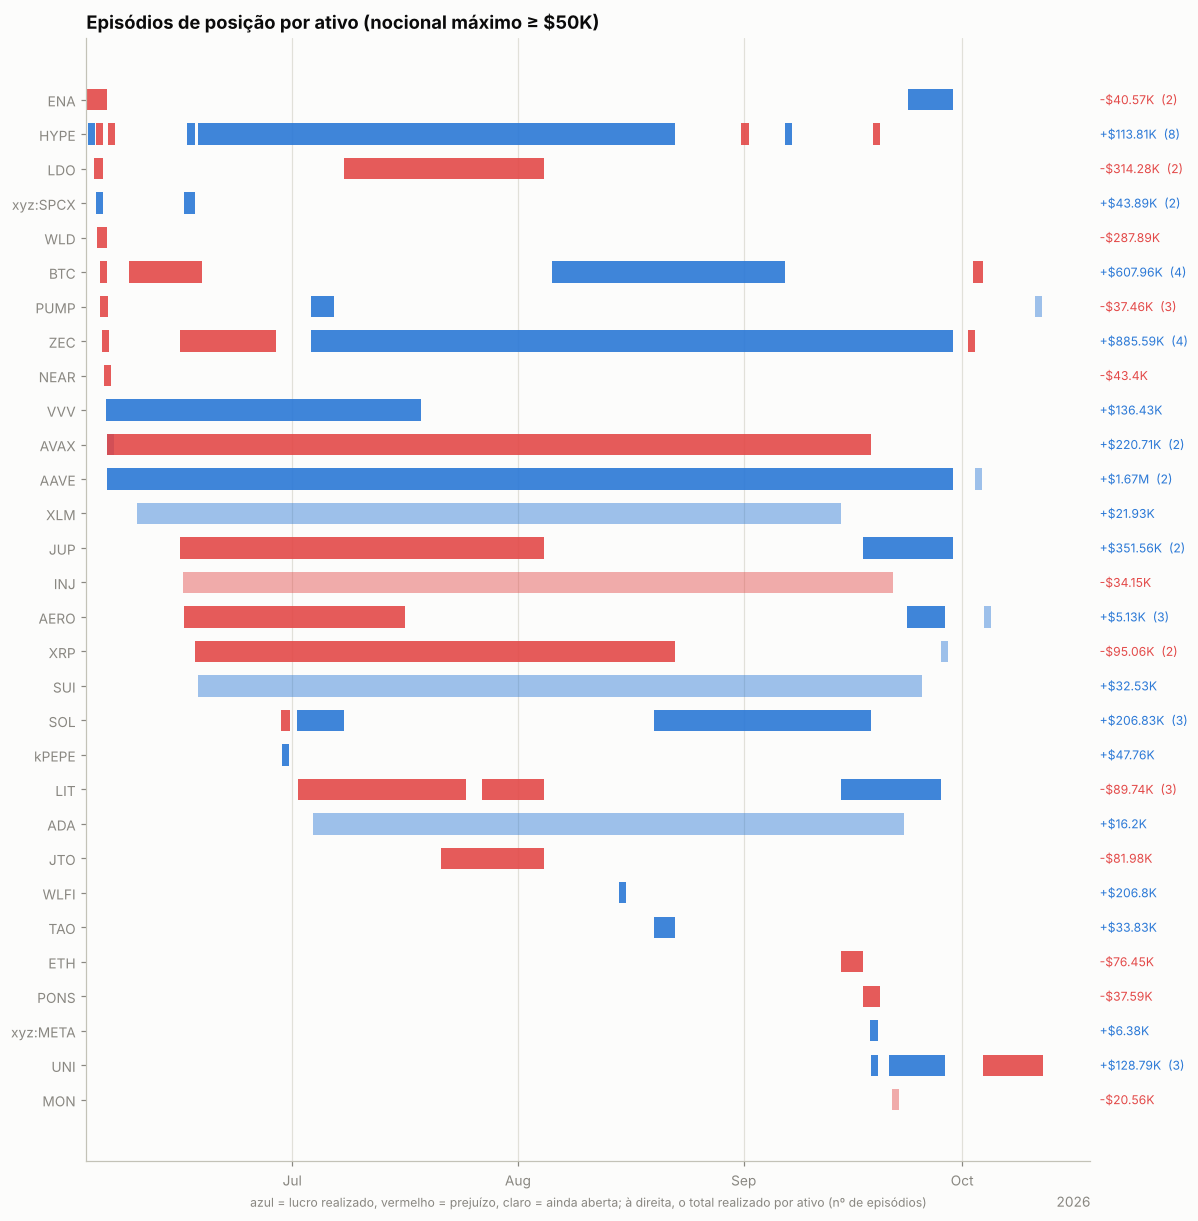
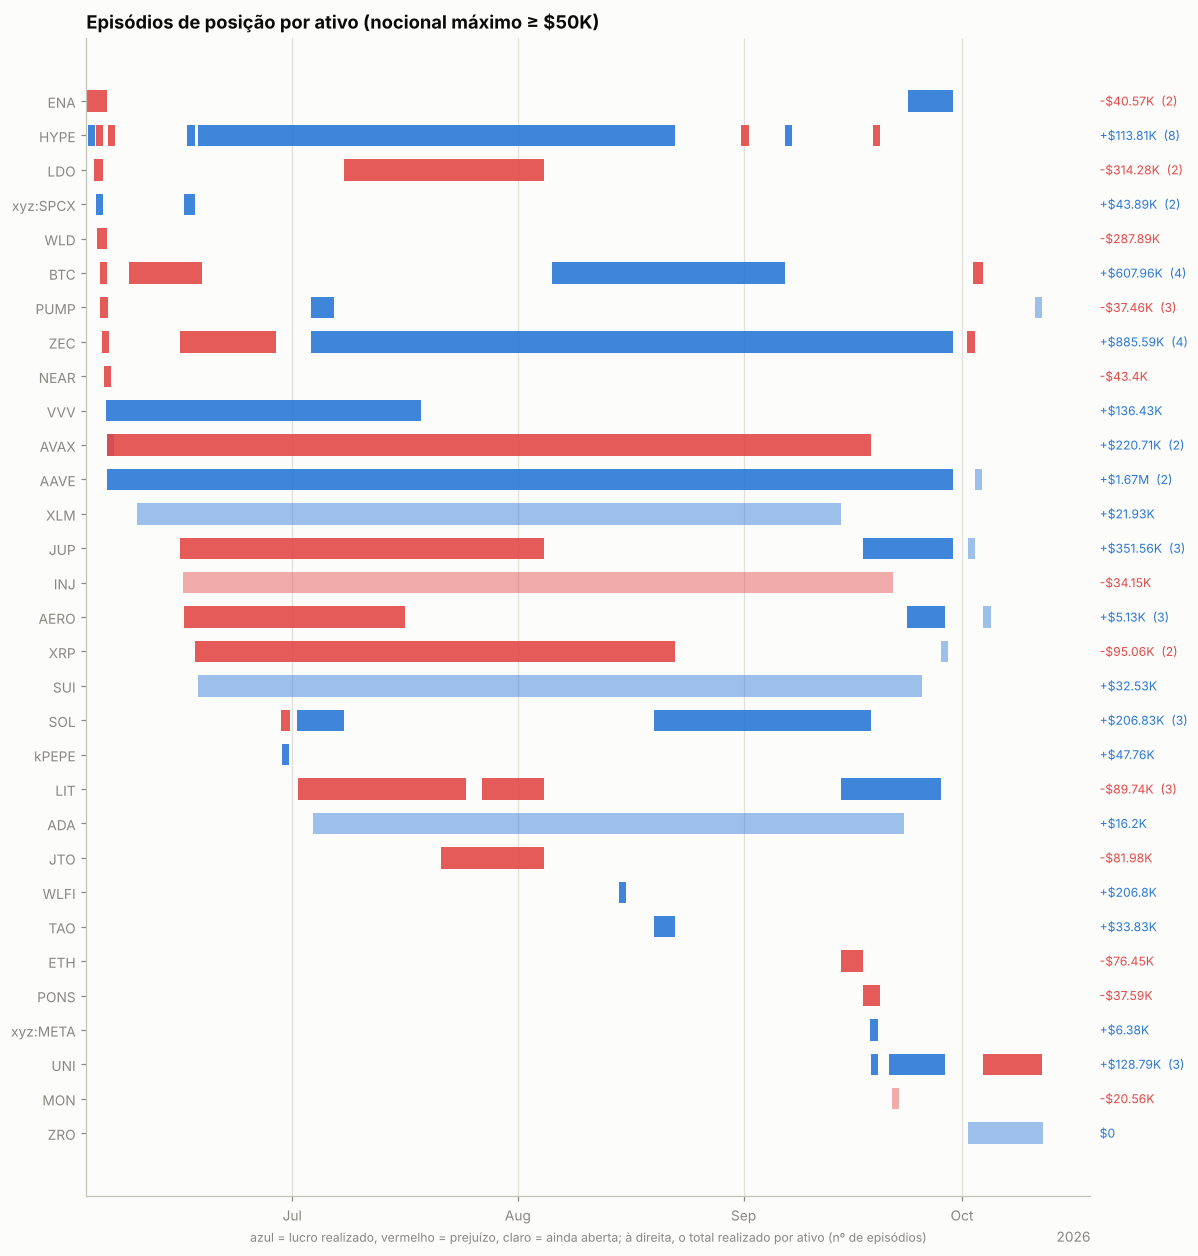
Add automatic report for 0x0748; detect own liquidations from the fill liquidation field
Newer fills mark liquidations in a liquidation dict (with liquidatedUser)
instead of dir, so the report counted 0. Count only the wallet's own ones.

Claude-Session: https://claude.ai/code/session_01C2hsqrLkKBX2gsgak5VV2Z

diff --git a/hlre/analyze.py b/hlre/analyze.py
@@ -479,8 +479,15 @@ def flows(ledger: pd.DataFrame) -> pd.DataFrame:
     return L.groupby("type")["usd"].agg(["count", "sum"]).sort_values("sum")
 
 
-def liquidation_events(fills: pd.DataFrame) -> pd.DataFrame:
+def liquidation_events(fills: pd.DataFrame, user: str | None = None) -> pd.DataFrame:
+    """Fills where the wallet itself was liquidated or auto-deleveraged. Newer
+    fills carry a `liquidation` dict instead of a special `dir`; when it names
+    another liquidatedUser the wallet was only the counterparty."""
     m = fills["dir"].str.contains("Liquidat|Deleverag", regex=True, na=False)
+    if user is not None and "liquidation" in fills:
+        own = fills["liquidation"].map(
+            lambda d: isinstance(d, dict) and str(d.get("liquidatedUser", "")).lower() == user.lower())
+        m = m | own
     return fills.loc[m, ["t", "coin", "dir", "side", "px", "sz", "startPosition", "closedPnl"]]
 
 

diff --git a/hlre/report.py b/hlre/report.py
@@ -127,7 +127,7 @@ def build(user: str, data_dir: str = "data", out_dir: str = "reports", coins: li
                          "PnL não realizado": usd(float(p["unrealizedPnl"]), True),
                          "liq.": p.get("liquidationPx") or "—"})
     liq_led = w.ledger[w.ledger["type"] == "liquidation"]
-    liq_f = liquidation_events(fills) if len(fills) else pd.DataFrame()
+    liq_f = liquidation_events(fills, w.user) if len(fills) else pd.DataFrame()
 
     md += [f"# Relatório automático — `{w.user}`", "",
            f"Gerado em {pd.Timestamp.now('UTC'):%Y-%m-%d %H:%M} UTC a partir da API pública da Hyperliquid "

diff --git a/reports/0x0748e296e5a350ec36c8487a1cea406e1b57d4b2/relatorio_auto.md b/reports/0x0748e296e5a350ec36c8487a1cea406e1b57d4b2/relatorio_auto.md
@@ -1,6 +1,6 @@
 # Relatório automático — `0x0748e296e5a350ec36c8487a1cea406e1b57d4b2`
 
-Gerado em 2026-10-13 18:09 UTC a partir da API pública da Hyperliquid (`POST /info`). Valores em USD. Este arquivo é regenerado por `python -m hlre.report`; a interpretação da estratégia fica em `ANALISE.md`.
+Gerado em 2026-10-13 18:10 UTC a partir da API pública da Hyperliquid (`POST /info`). Valores em USD. Este arquivo é regenerado por `python -m hlre.report`; a interpretação da estratégia fica em `ANALISE.md`.
 
 ## 1. Visão geral
 
@@ -11,12 +11,12 @@ Gerado em 2026-10-13 18:09 UTC a partir da API pública da Hyperliquid (`POST /i
 | PnL all-time só de perps | +$7.29M |
 | Volume all-time | $972.98M |
 | Primeira atividade | 2024-06-05 |
-| Fills disponíveis na API | 32,695 (desde 2026-06-02) |
-| Ordens (fills agrupados por oid) | 312 |
+| Fills disponíveis na API | 34,695 (desde 2026-06-02) |
+| Ordens (fills agrupados por oid) | 442 |
 | Funding líquido (recebido > 0) | -$887.3K |
-| Taxas pagas (período dos fills) | -$101.5K |
+| Taxas pagas (período dos fills) | -$101.8K |
 | Liquidações (ledger) | 0 |
-| Fills de liquidação/ADL | 0 |
+| Fills de liquidação/ADL | 144 |
 | Papel da conta | user |
 | API wallets (agentes) | 0 |
 
@@ -40,6 +40,8 @@ Gerado em 2026-10-13 18:09 UTC a partir da API pública da Hyperliquid (`POST /i
 
 ![PnL](img/pnl_curve.png)
 
+**Atenção: execuções que não aparecem nos fills.** A posição muda sem fill visível em 17 pontos (~$7.61M de nocional; maiores: HYPE $1.38M, LDO $1.14M, UNI $874.9K, JUP $765.8K, NEAR $747.4K). O mais comum são fatias de TWAP: ficam fora de `userFills` e o endpoint de TWAP só guarda as 2.000 mais recentes. O *preço exato* e as tabelas por episódio dessas moedas não são exatos.
+
 ## 3. De onde veio o PnL
 
 *Preço (aprox.)* usa a posição média diária de cada ativo, reconstruída a partir do histórico de funding (que traz o tamanho da posição a cada hora/dia desde o início da conta), vezes o movimento open→close do dia. Subestima o PnL de day trade, mas cobre o período sem fills. *Preço exato* marca cada fill no fechamento diário e só existe para o período coberto pelos fills.
@@ -55,15 +57,15 @@ Gerado em 2026-10-13 18:09 UTC a partir da API pública da Hyperliquid (`POST /i
 | ETH | +$933.5K | -$91.9K | +$841.7K | -$76.5K | -$1.6K |
 | SOL | +$614.1K | -$728 | +$613.4K | +$206.8K | -$3.2K |
 | XLM | +$511.3K | +$14.1K | +$525.4K | -$14.7K | -$74 |
-| UNI | +$548.0K | -$27.2K | +$520.8K | +$101.5K | -$535 |
+| UNI | +$548.0K | -$27.2K | +$520.8K | +$79.5K | -$573 |
 | IP | -$437.4K | -$76.6K | -$514.0K | — | — |
 | WLD | -$505.1K | -$1.7K | -$506.7K | +$4.4K | -$39 |
 | OM | +$465.2K | +$196 | +$465.4K | — | — |
 | ENA | +$448.9K | -$2.8K | +$446.1K | +$8.1K | -$302 |
 | kBONK | -$422.3K | -$10.0K | -$432.3K | — | — |
-| JUP | +$449.7K | -$21.5K | +$428.2K | +$252.0K | -$941 |
+| JUP | +$449.7K | -$21.5K | +$428.2K | +$250.1K | -$1.0K |
 | PENDLE | +$447.6K | -$39.4K | +$408.1K | — | — |
-| outros (77) | +$525.6K | -$329.4K | +$196.1K | -$243.8K | -$9.3K |
+| outros (77) | +$525.6K | -$329.4K | +$196.1K | -$206.6K | -$9.5K |
 
 **Decomposição no período dos fills** (preço exato): quanto veio de *carregar* a posição (e, dentro disso, do viés médio vs. do *timing* de aumentar/reduzir), quanto de trades intradiários, funding e taxas.
 
@@ -151,7 +153,7 @@ Gerado em 2026-10-13 18:09 UTC a partir da API pública da Hyperliquid (`POST /i
 | SOL | $10.51M | 10 | 91% | 1e+04 |
 | ZEC | $7.21M | 15 | 76% | 500 |
 | LIT | $6.10M | 13 | 43% | 1.996e+05 |
-| JUP | $5.24M | 17 | 47% | 1e+06 |
+| JUP | $5.57M | 38 | 50% | 4.918e+04 |
 | ETH | $4.96M | 2 | 100% | 1,000 |
 | AAVE | $4.35M | 9 | 71% | 5,000 |
 | LDO | $3.64M | 21 | 55% | 2.152e+05 |
@@ -278,7 +280,7 @@ Por sessão (ordens a menos de 30 min uma da outra contam como uma decisão; p =
 
 ![Episódios](img/episodes_timeline.png)
 
-Episódios com nocional máximo ≥ $50K: 60; fechados com lucro: 47%. Abaixo, os 25 maiores por PnL realizado, em ordem de data. *7d/30d antes* e *vs. máx. 30d*: o que o preço tinha feito até a primeira ordem; *funding a.a.*: taxa anualizada nas 24h anteriores (positiva = longs pagam shorts); *entrada média vs. 1ª ordem*: positivo = foi aumentando a posição com o preço indo contra; *contra (máx.)*: quanto o preço andou contra a primeira ordem durante o episódio; *capturado*: movimento entre o preço médio de entrada e o de saída.
+Episódios com nocional máximo ≥ $50K: 62; fechados com lucro: 47%. Abaixo, os 25 maiores por PnL realizado, em ordem de data. *7d/30d antes* e *vs. máx. 30d*: o que o preço tinha feito até a primeira ordem; *funding a.a.*: taxa anualizada nas 24h anteriores (positiva = longs pagam shorts); *entrada média vs. 1ª ordem*: positivo = foi aumentando a posição com o preço indo contra; *contra (máx.)*: quanto o preço andou contra a primeira ordem durante o episódio; *capturado*: movimento entre o preço médio de entrada e o de saída.
 
 | ativo | lado | início | dias | nocional máx. | 7d antes | 30d antes | vs. máx. 30d | funding a.a. na entrada | entrada média vs. 1ª ordem | contra (máx.) | pior PnL aberto | capturado | realizado | funding |
 |---|---|---|---|---|---|---|---|---|---|---|---|---|---|---|
@@ -306,7 +308,7 @@ Episódios com nocional máximo ≥ $50K: 60; fechados com lucro: 47%. Abaixo, o
 | JUP | long | 2026-09-17 | 12 | $2.02M | -3% | +34% | -19% | +3% | -13% | +1% | -$8.1K | +26% | +$406.9K | -$8.9K |
 | UNI | short | 2026-09-18 | 0 | $873.1K | +44% | +164% | +0% | +19% | — | -0% | -$5.2K | — | +$168.5K | -$406 |
 | BTC | long | 2026-10-02 | 1 | $4.34M | +2% | +12% | -1% | +9% | -0% | +3% | -$129.5K | -2% | -$105.3K | -$1.3K |
-| UNI | long | 2026-10-03 | 8 | $449.6K | -6% | +45% | -16% | +11% | -0% | +21% | -$96.0K | -15% | -$66.0K | -$1.0K |
+| UNI | long | 2026-10-03 | 8 | $449.6K | -6% | +45% | -16% | +11% | -0% | +21% | -$97.2K | -11% | -$66.0K | -$1.0K |
 
 ## 7. Funding
 
@@ -351,6 +353,155 @@ Ponte HyperCore↔HyperEVM (endereços de sistema `0x2000…`/`0x2222…`): 18 t
 | `0xc8e06ebfbfaf1b1720dfae86a0fc979e5649823e` | transfers | 2 | $769.0K | $0 | -$829 | 0 | — |
 | `0xa822a9ceb6d6cb5b565bd10098abcfa9cf18d748` | transfers | 4 | $405.1K | $16,221.12M | -$6,234.56M | 0 | UBONK 88,765,611,412,586, UPUMP 990,689,682,835, UDZ 9,998,579,464 |
 | `0xfa2dbdbee70ff0b29171670573a1fff1a02d1ca2` | transfers | 1 | $249.5K | $2 | -$483 | 0 | USDC 1, USOL 0, HYPE 0 |
+
+**Liquidações e ADL (auto-deleveraging) nos fills:**
+
+| quando (UTC) | ativo | tipo | lado | preço | tamanho | posição antes | PnL realizado |
+|---|---|---|---|---|---|---|---|
+| 2026-07-24 20:36:28 | LIT | Close Long | A | 2.0441 | 156.0 | 500000.0 | -$30 |
+| 2026-07-24 20:36:28 | LIT | Close Long | A | 2.0441 | 300.0 | 499844.0 | -$57 |
+| 2026-07-24 20:36:28 | LIT | Close Long | A | 2.0441 | 620.0 | 499544.0 | -$117 |
+| 2026-07-24 20:36:28 | LIT | Close Long | A | 2.044 | 143.0 | 498924.0 | -$27 |
+| 2026-07-24 20:36:28 | LIT | Close Long | A | 2.0439 | 5.0 | 498781.0 | -$1 |
+| 2026-07-24 20:36:28 | LIT | Close Long | A | 2.0438 | 346.0 | 498776.0 | -$66 |
+| 2026-07-24 20:36:28 | LIT | Close Long | A | 2.0438 | 371.0 | 498430.0 | -$70 |
+| 2026-07-24 20:36:28 | LIT | Close Long | A | 2.0438 | 169.0 | 498059.0 | -$32 |
+| 2026-07-24 20:36:28 | LIT | Close Long | A | 2.0438 | 640.0 | 497890.0 | -$121 |
+| 2026-07-24 20:36:28 | LIT | Close Long | A | 2.0438 | 163.0 | 497250.0 | -$31 |
+| 2026-07-24 20:36:28 | LIT | Close Long | A | 2.0437 | 293.0 | 497087.0 | -$56 |
+| 2026-07-24 20:36:28 | LIT | Close Long | A | 2.0437 | 49.0 | 496794.0 | -$9 |
+| 2026-07-24 20:36:28 | LIT | Close Long | A | 2.0436 | 200.0 | 496745.0 | -$38 |
+| 2026-07-24 20:36:28 | LIT | Close Long | A | 2.0435 | 120.0 | 496545.0 | -$23 |
+| 2026-07-24 20:36:28 | LIT | Close Long | A | 2.0434 | 40.0 | 496425.0 | -$8 |
+| 2026-07-24 20:36:28 | LIT | Close Long | A | 2.0434 | 120.0 | 496385.0 | -$23 |
+| 2026-07-24 20:36:28 | LIT | Close Long | A | 2.0433 | 500.0 | 496265.0 | -$95 |
+| 2026-07-24 20:36:28 | LIT | Close Long | A | 2.0433 | 1250.0 | 495765.0 | -$237 |
+| 2026-07-24 20:36:28 | LIT | Close Long | A | 2.0433 | 357.0 | 494515.0 | -$68 |
+| 2026-07-24 20:36:28 | LIT | Close Long | A | 2.0432 | 777.0 | 494158.0 | -$148 |
+| 2026-07-24 20:36:28 | LIT | Close Long | A | 2.0432 | 49.0 | 493381.0 | -$9 |
+| 2026-07-24 20:36:28 | LIT | Close Long | A | 2.0431 | 10.0 | 493332.0 | -$2 |
+| 2026-07-24 20:36:28 | LIT | Close Long | A | 2.0431 | 262.0 | 493322.0 | -$50 |
+| 2026-07-24 20:36:28 | LIT | Close Long | A | 2.043 | 24.0 | 493060.0 | -$5 |
+| 2026-07-24 20:36:28 | LIT | Close Long | A | 2.043 | 1157.0 | 493036.0 | -$220 |
+| 2026-07-24 20:36:28 | LIT | Close Long | A | 2.0429 | 120.0 | 491879.0 | -$23 |
+| 2026-07-24 20:36:28 | LIT | Close Long | A | 2.0429 | 760.0 | 491759.0 | -$145 |
+| 2026-07-24 20:36:28 | LIT | Close Long | A | 2.0428 | 25.0 | 490999.0 | -$5 |
+| 2026-07-24 20:36:28 | LIT | Close Long | A | 2.0428 | 502.0 | 490974.0 | -$96 |
+| 2026-07-24 20:36:28 | LIT | Close Long | A | 2.0427 | 161.0 | 490472.0 | -$31 |
+| 2026-07-24 20:36:28 | LIT | Close Long | A | 2.0427 | 640.0 | 490311.0 | -$122 |
+| 2026-07-24 20:36:28 | LIT | Close Long | A | 2.0426 | 143.0 | 489671.0 | -$27 |
+| 2026-07-24 20:36:28 | LIT | Close Long | A | 2.0426 | 317.0 | 489528.0 | -$60 |
+| 2026-07-24 20:36:28 | LIT | Close Long | A | 2.0426 | 1250.0 | 489211.0 | -$238 |
+| 2026-07-24 20:36:28 | LIT | Close Long | A | 2.0422 | 6.0 | 487961.0 | -$1 |
+| 2026-07-24 20:36:28 | LIT | Close Long | A | 2.0422 | 3370.0 | 487955.0 | -$644 |
+| 2026-07-24 20:36:28 | LIT | Close Long | A | 2.0421 | 20038.0 | 484585.0 | -$3.8K |
+| 2026-07-24 20:36:28 | LIT | Close Long | A | 2.042 | 24.0 | 464547.0 | -$5 |
+| 2026-07-24 20:36:28 | LIT | Close Long | A | 2.042 | 4709.0 | 464523.0 | -$901 |
+| 2026-07-24 20:36:28 | LIT | Close Long | A | 2.042 | 641.0 | 459814.0 | -$123 |
+| 2026-07-24 20:36:28 | LIT | Close Long | A | 2.042 | 736.0 | 459173.0 | -$141 |
+| 2026-07-24 20:36:28 | LIT | Close Long | A | 2.0419 | 485.0 | 458437.0 | -$93 |
+| 2026-07-24 20:36:28 | LIT | Close Long | A | 2.0418 | 1735.0 | 457952.0 | -$332 |
+| 2026-07-24 20:36:28 | LIT | Close Long | A | 2.0417 | 1359.0 | 456217.0 | -$260 |
+| 2026-07-24 20:36:28 | LIT | Close Long | A | 2.0416 | 317.0 | 454858.0 | -$61 |
+| 2026-07-24 20:36:28 | LIT | Close Long | A | 2.0416 | 16506.0 | 454541.0 | -$3.2K |
+| 2026-07-24 20:36:28 | LIT | Close Long | A | 2.0415 | 195.0 | 438035.0 | -$37 |
+| 2026-07-24 20:36:28 | LIT | Close Long | A | 2.0415 | 777.0 | 437840.0 | -$149 |
+| 2026-07-24 20:36:28 | LIT | Close Long | A | 2.0414 | 5109.0 | 437063.0 | -$980 |
+| 2026-07-24 20:36:28 | LIT | Close Long | A | 2.0414 | 40.0 | 431954.0 | -$8 |
+| 2026-07-24 20:36:28 | LIT | Close Long | A | 2.0413 | 198.0 | 431914.0 | -$38 |
+| 2026-07-24 20:36:28 | LIT | Close Long | A | 2.0413 | 40.0 | 431716.0 | -$8 |
+| 2026-07-24 20:36:28 | LIT | Close Long | A | 2.0412 | 13833.0 | 431676.0 | -$2.7K |
+| 2026-07-24 20:36:28 | LIT | Close Long | A | 2.0412 | 24.0 | 417843.0 | -$5 |
+| 2026-07-24 20:36:28 | LIT | Close Long | A | 2.0412 | 641.0 | 417819.0 | -$123 |
+| 2026-07-24 20:36:28 | LIT | Close Long | A | 2.0411 | 25.0 | 417178.0 | -$5 |
+| 2026-07-24 20:36:28 | LIT | Close Long | A | 2.0409 | 1200.0 | 417153.0 | -$231 |
+| 2026-07-24 20:36:28 | LIT | Close Long | A | 2.0407 | 484.0 | 415953.0 | -$93 |
+| 2026-07-24 20:36:28 | LIT | Close Long | A | 2.0405 | 19.0 | 415469.0 | -$4 |
+| 2026-07-24 20:36:28 | LIT | Close Long | A | 2.0405 | 10.0 | 415450.0 | -$2 |
+| 2026-07-24 20:36:28 | LIT | Close Long | A | 2.0405 | 2039.0 | 415440.0 | -$393 |
+| 2026-07-24 20:36:28 | LIT | Close Long | A | 2.0404 | 6.0 | 413401.0 | -$1 |
+| 2026-07-24 20:36:28 | LIT | Close Long | A | 2.0403 | 887.0 | 413395.0 | -$171 |
+| 2026-07-24 20:36:28 | LIT | Close Long | A | 2.0403 | 760.0 | 412508.0 | -$147 |
+| 2026-07-24 20:36:28 | LIT | Close Long | A | 2.0402 | 195.0 | 411748.0 | -$38 |
+| 2026-07-24 20:36:28 | LIT | Close Long | A | 2.0402 | 6.0 | 411553.0 | -$1 |
+| 2026-07-24 20:36:28 | LIT | Close Long | A | 2.0401 | 389.0 | 411547.0 | -$75 |
+| 2026-07-24 20:36:28 | LIT | Close Long | A | 2.0401 | 760.0 | 411158.0 | -$147 |
+| 2026-07-24 20:36:28 | LIT | Close Long | A | 2.04 | 12.0 | 410398.0 | -$2 |
+| 2026-07-24 20:36:28 | LIT | Close Long | A | 2.04 | 40.0 | 410386.0 | -$8 |
+| 2026-07-24 20:36:28 | LIT | Close Long | A | 2.04 | 4709.0 | 410346.0 | -$910 |
+| 2026-07-24 20:36:28 | LIT | Close Long | A | 2.0399 | 5.0 | 405637.0 | -$1 |
+| 2026-07-24 20:36:28 | LIT | Close Long | A | 2.0398 | 10.0 | 405632.0 | -$2 |
+| 2026-07-24 20:36:28 | LIT | Close Long | A | 2.0398 | 2314.0 | 405622.0 | -$448 |
+| 2026-07-24 20:36:28 | LIT | Close Long | A | 2.0395 | 3308.0 | 403308.0 | -$641 |
+| 2026-07-24 20:36:31 | LIT | Close Long | A | 2.0379 | 4209.0 | 400000.0 | -$822 |
+| 2026-07-24 20:36:31 | LIT | Close Long | A | 2.0378 | 85.0 | 395791.0 | -$17 |
+| 2026-07-24 20:36:31 | LIT | Close Long | A | 2.0377 | 1200.0 | 395706.0 | -$235 |
+| 2026-07-24 20:36:31 | LIT | Close Long | A | 2.0377 | 25.0 | 394506.0 | -$5 |
+| 2026-07-24 20:36:31 | LIT | Close Long | A | 2.0376 | 10.0 | 394481.0 | -$2 |
+| 2026-07-24 20:36:31 | LIT | Close Long | A | 2.0376 | 161.0 | 394471.0 | -$32 |
+| 2026-07-24 20:36:31 | LIT | Close Long | A | 2.0374 | 40.0 | 394310.0 | -$8 |
+| 2026-07-24 20:36:31 | LIT | Close Long | A | 2.0372 | 13833.0 | 394270.0 | -$2.7K |
+| 2026-07-24 20:36:31 | LIT | Close Long | A | 2.0371 | 24.0 | 380437.0 | -$5 |
+| 2026-07-24 20:36:31 | LIT | Close Long | A | 2.037 | 2039.0 | 380413.0 | -$400 |
+| 2026-07-24 20:36:31 | LIT | Close Long | A | 2.0368 | 270.0 | 378374.0 | -$53 |
+| 2026-07-24 20:36:31 | LIT | Close Long | A | 2.0368 | 734.0 | 378104.0 | -$144 |
+| 2026-07-24 20:36:31 | LIT | Close Long | A | 2.0368 | 147.0 | 377370.0 | -$29 |
+| 2026-07-24 20:36:31 | LIT | Close Long | A | 2.0367 | 7327.0 | 377223.0 | -$1.4K |
+| 2026-07-24 20:36:31 | LIT | Close Long | A | 2.0366 | 4173.0 | 369896.0 | -$821 |
+| 2026-07-24 20:36:31 | LIT | Close Long | A | 2.0366 | 5.0 | 365723.0 | -$1 |
+| 2026-07-24 20:36:31 | LIT | Close Long | A | 2.0364 | 49106.0 | 365718.0 | -$9.7K |
+| 2026-07-24 20:36:31 | LIT | Close Long | A | 2.0363 | 500.0 | 316612.0 | -$98 |
+| 2026-07-24 20:36:31 | LIT | Close Long | A | 2.036 | 334.0 | 316112.0 | -$66 |
+| 2026-07-24 20:36:31 | LIT | Close Long | A | 2.0357 | 37.0 | 315778.0 | -$7 |
+| 2026-07-24 20:36:31 | LIT | Close Long | A | 2.0356 | 16.0 | 315741.0 | -$3 |
+| 2026-07-24 20:36:31 | LIT | Close Long | A | 2.0354 | 40.0 | 315725.0 | -$8 |
+| 2026-07-24 20:36:31 | LIT | Close Long | A | 2.0353 | 11.0 | 315685.0 | -$2 |
+| 2026-07-24 20:36:31 | LIT | Close Long | A | 2.0353 | 6.0 | 315674.0 | -$1 |
+| 2026-07-24 20:36:31 | LIT | Close Long | A | 2.0353 | 40.0 | 315668.0 | -$8 |
+| 2026-07-24 20:36:31 | LIT | Close Long | A | 2.0352 | 270.0 | 315628.0 | -$53 |
+| 2026-07-24 20:36:31 | LIT | Close Long | A | 2.0352 | 147.0 | 315358.0 | -$29 |
+| 2026-07-24 20:36:31 | LIT | Close Long | A | 2.0351 | 2204.0 | 315211.0 | -$437 |
+| 2026-07-24 20:36:31 | LIT | Close Long | A | 2.0351 | 13.0 | 313007.0 | -$3 |
+| 2026-07-24 20:36:31 | LIT | Close Long | A | 2.0351 | 734.0 | 312994.0 | -$145 |
+| 2026-07-24 20:36:31 | LIT | Close Long | A | 2.035 | 1228.0 | 312260.0 | -$243 |
+| 2026-07-24 20:36:31 | LIT | Close Long | A | 2.035 | 9828.0 | 311032.0 | -$1.9K |
+| 2026-07-24 20:36:31 | LIT | Close Long | A | 2.0349 | 9766.0 | 301204.0 | -$1.9K |
+| 2026-07-24 20:36:31 | LIT | Close Long | A | 2.0349 | 9761.0 | 291438.0 | -$1.9K |
+| 2026-07-24 20:36:31 | LIT | Close Long | A | 2.0347 | 34.0 | 281677.0 | -$7 |
+| 2026-07-24 20:36:31 | LIT | Close Long | A | 2.0347 | 803.0 | 281643.0 | -$159 |
+| 2026-07-24 20:36:31 | LIT | Close Long | A | 2.0347 | 7.0 | 280840.0 | -$1 |
+| 2026-07-24 20:36:31 | LIT | Close Long | A | 2.0345 | 5109.0 | 280833.0 | -$1.0K |
+| 2026-07-24 20:36:31 | LIT | Close Long | A | 2.0345 | 198.0 | 275724.0 | -$39 |
+| 2026-07-24 20:36:31 | LIT | Close Long | A | 2.0344 | 1200.0 | 275526.0 | -$239 |
+| 2026-07-24 20:36:31 | LIT | Close Long | A | 2.0343 | 25.0 | 274326.0 | -$5 |
+| 2026-07-24 20:36:31 | LIT | Close Long | A | 2.0343 | 1250.0 | 274301.0 | -$249 |
+| 2026-07-24 20:36:31 | LIT | Close Long | A | 2.0343 | 2719.0 | 273051.0 | -$541 |
+| 2026-07-24 20:36:31 | LIT | Close Long | A | 2.0343 | 492.0 | 270332.0 | -$98 |
+| 2026-07-24 20:36:31 | LIT | Close Long | A | 2.034 | 24.0 | 269840.0 | -$5 |
+| 2026-07-24 20:36:31 | LIT | Close Long | A | 2.0339 | 270.0 | 269816.0 | -$54 |
+| 2026-07-24 20:36:31 | LIT | Close Long | A | 2.0339 | 147.0 | 269546.0 | -$29 |
+| 2026-07-24 20:36:31 | LIT | Close Long | A | 2.0339 | 1295.0 | 269399.0 | -$258 |
+| 2026-07-24 20:36:31 | LIT | Close Long | A | 2.0338 | 9049.0 | 268104.0 | -$1.8K |
+| 2026-07-24 20:36:31 | LIT | Close Long | A | 2.0338 | 10.0 | 259055.0 | -$2 |
+| 2026-07-24 20:36:31 | LIT | Close Long | A | 2.0338 | 2755.0 | 259045.0 | -$550 |
+| 2026-07-24 20:36:31 | LIT | Close Long | A | 2.0336 | 3591.0 | 256290.0 | -$717 |
+| 2026-07-24 20:36:31 | LIT | Close Long | A | 2.0333 | 40.0 | 252699.0 | -$8 |
+| 2026-07-24 20:36:31 | LIT | Close Long | A | 2.0333 | 775.0 | 252659.0 | -$155 |
+| 2026-07-24 20:36:31 | LIT | Close Long | A | 2.0332 | 5.0 | 251884.0 | -$1 |
+| 2026-07-24 20:36:31 | LIT | Close Long | A | 2.0331 | 24.0 | 251879.0 | -$5 |
+| 2026-07-24 20:36:31 | LIT | Close Long | A | 2.033 | 4900.0 | 251855.0 | -$981 |
+| 2026-07-24 20:36:31 | LIT | Close Long | A | 2.0329 | 768.0 | 246955.0 | -$154 |
+| 2026-07-24 20:36:31 | LIT | Close Long | A | 2.0328 | 270.0 | 246187.0 | -$54 |
+| 2026-07-24 20:36:31 | LIT | Close Long | A | 2.0328 | 147.0 | 245917.0 | -$29 |
+| 2026-07-24 20:36:31 | LIT | Close Long | A | 2.0328 | 80523.0 | 245770.0 | -$16.1K |
+| 2026-07-24 20:36:31 | LIT | Close Long | A | 2.0326 | 768.0 | 165247.0 | -$154 |
+| 2026-07-24 20:36:31 | LIT | Close Long | A | 2.0326 | 25.0 | 164479.0 | -$5 |
+| 2026-07-24 20:36:31 | LIT | Close Long | A | 2.0326 | 734.0 | 164454.0 | -$147 |
+| 2026-07-24 20:36:31 | LIT | Close Long | A | 2.0323 | 768.0 | 163720.0 | -$154 |
+| 2026-07-24 20:36:31 | LIT | Close Long | A | 2.0323 | 314.0 | 162952.0 | -$63 |
+| 2026-07-24 20:36:31 | LIT | Close Long | A | 2.0322 | 40.0 | 162638.0 | -$8 |
+| 2026-07-24 20:36:31 | LIT | Close Long | A | 2.0322 | 49.0 | 162598.0 | -$10 |
+| 2026-07-24 20:36:31 | LIT | Close Long | A | 2.0322 | 162549.0 | 162549.0 | -$32.7K |
 
 ## 9. Dá para copiar? (espelhar a posição com atraso)
 

diff --git a/reports/0x0748e296e5a350ec36c8487a1cea406e1b57d4b2/ANALISE.md b/reports/0x0748e296e5a350ec36c8487a1cea406e1b57d4b2/ANALISE.md
@@ -42,7 +42,7 @@ Fonte: API pública da Hyperliquid. A conta existe desde jun/2024. A API entrega
 - **Usuário antigo da Hyperliquid.** Recebeu 11.429 HYPE no airdrop de genesis (29/nov/2024), além de WOW, LICKO, KNTQ e MAX. Movimenta dezenas de milhares de HYPE entre o spot e o staking (hoje são 15,7k delegados), o que lhe dá 20% de desconto na taxa.
 - **Uma liquidação.** Long de LIT de US$ 1,0M em 24/jul/2026 (−US$ 99k). Os outros 5 fills marcados como liquidação são a carteira **pegando o outro lado** de liquidações de terceiros (NEAR, AVAX, VVV). Nesses casos não foi ela a liquidada.
 
-**O dinheiro.** Entraram US$ 6,5M em depósitos de USDC (28 vezes, de US$ 8k a US$ 1M), US$ 3,5M em HYPE vindo da HyperEVM e US$ 0,3M em FART. Saíram **US$ 17,8M**: US$ 5,9M em saques de USDC, US$ 2,75M de USDC para a HyperEVM, US$ 3,2M em HYPE, US$ 2,5M em SOL e US$ 1,5M em BTC (comprados no spot e retirados pela Unit logo em seguida) e US$ 1,9M em PUMP. O padrão é **sacar o lucro continuamente**: desde jul/2025 a conta oscila entre US$ 3,2M e US$ 7,8M, apesar de +US$ 8,4M de PnL no período.
+**O dinheiro.** Entraram US$ 6,5M em depósitos de USDC (28 vezes, de US$ 8k a US$ 1M), US$ 3,5M em HYPE vindo da HyperEVM e US$ 0,3M em FART. Saíram **US$ 17,8M**: US$ 5,9M em saques de USDC, US$ 2,75M de USDC para a HyperEVM, US$ 3,2M em HYPE, US$ 2,5M em SOL e US$ 1,5M em BTC (comprados no spot e retirados pela Unit logo em seguida) e US$ 1,9M em PUMP. O padrão é **sacar o lucro continuamente**: 63% dos 35 dias com saque vêm depois de 3 dias de PnL positivo (mediana de +US$ 66k), contra 55% na base. Além disso, desde jul/2025 a conta oscila entre US$ 3,2M e US$ 7,8M, apesar de +US$ 8,4M de PnL no período.
 
 ## 2. O livro e como ele mudou
 
@@ -146,7 +146,7 @@ Espelhando a posição de perp com atraso (carry, sem custos):
 | 3 dias | +US$ 0,15M | +1,57M | −1,41M |
 | 7 dias | +US$ 0,26M | +1,48M | −1,22M |
 
-- **O lado long sobrevive ao atraso, e o short não.** O short depende de vender o repique e cobrir na queda, ambos em poucos dias. Copiado com 3 dias de atraso, perde US$ 1,4M.
+- **O lado long sobrevive ao atraso, e o short não.** Na marcação horária do período com fills, os três maiores longs mantêm o resultado mesmo com 7 dias de atraso: AAVE +US$ 1,67M sem atraso e +1,92M com 168h, ZEC +1,08M e +1,37M, BTC +0,61M e +0,49M (seção 9 do relatório automático). O short depende de vender o repique e cobrir na queda, ambos em poucos dias. Copiado com 3 dias de atraso, perde US$ 1,4M.
 - **O real (US$ 8,2M) fica bem acima do que um copiador de 1 dia pegaria (US$ 3,0M).** O que dá dinheiro é a reação dentro do dia.
 - **Pontos cegos do CoinGlass:** o PUMP spot (o melhor trade de 2026) não aparece como posição, e uma TWAP em andamento só aparece aos poucos.
 
